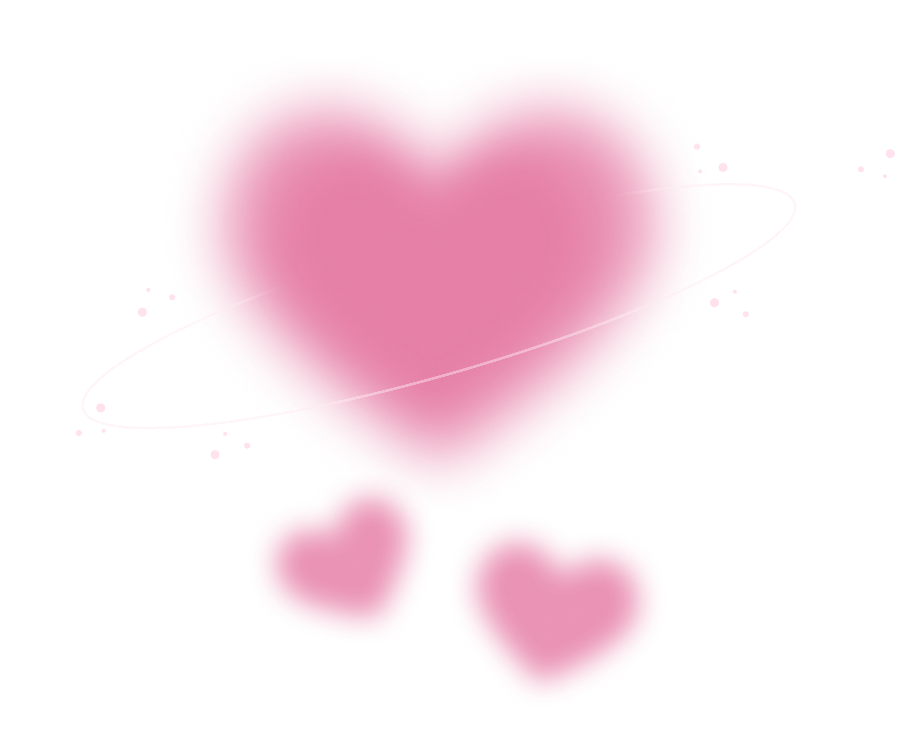
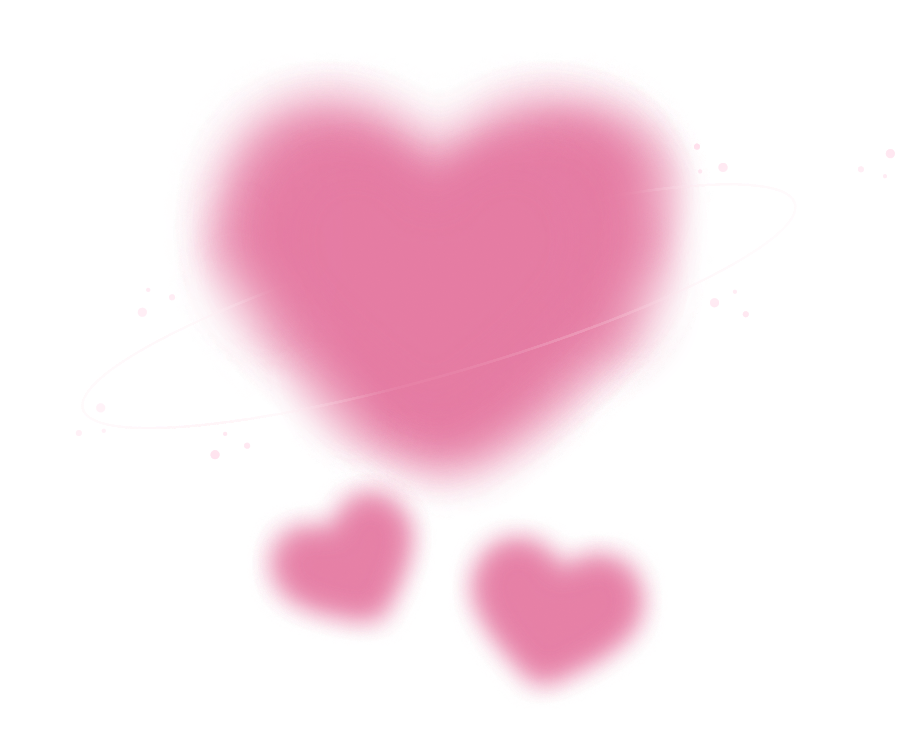
se agrego el fondo de heart aura de forma correcta

Changed region(s): [[0.2137, 0.1197, 0.7634, 0.868], [0.4885, 0.7184, 0.7023, 0.9279]]

diff --git a/src/components/MyTimer.jsx b/src/components/MyTimer.jsx
@@ -44,7 +44,7 @@ function MyTimer() {
     }, [isRunning]);
     // console.log({ customTime })
     return (
-        <div className='flex flex-col items-center justify-center h-[50vh]'>
+        <div className='heart flex flex-col items-center justify-center h-[70vh]'>
             <div className='m-2 flex gap-2 justify-center items-center'>
                 <box-icon
                     onClick={restartTimer}
@@ -70,7 +70,7 @@ function MyTimer() {
                     className={`rounded-full fill-[var(--color-primary)] hover:bg-[var(--color-primary)] hover:fill-white transition-colors duration-300 ease-in-out active:scale-95` + (!isRunning ? ' bg-[var(--color-primary)] fill-white' : '')}>
                 </box-icon>
             </div>
-            <span className="countdown agdasima text-8xl">
+            <span className="countdown agdasima text-8xl mb-[25vh]">
                 <span style={{ "--value": minutes }}></span>:
                 <span style={{ "--value": seconds }}></span>
             </span >

diff --git a/src/components/Header/Header.jsx b/src/components/Header/Header.jsx
@@ -3,7 +3,7 @@ import useTimerStore from "../store/useTimerStore";
 function Header() {
     const { modoFocus, descansoCorto, descansoLargo, isModoFocus, isDescansoCorto, isDescansoLargo } = useTimerStore();
     return (
-        <header className="h-40 bg-transparent flex justify-between items-center px-15  text-xl">
+        <header className="h-30 bg-transparent flex justify-between items-center px-15  text-xl">
             <box-icon name='cog'
                 size='md'
                 className="rounded-full fill-[var(--color-primary)] hover:bg-[var(--color-primary)] p-1 transition-colors duration-300 ease-in-out active:scale-95 hover:fill-white ">

diff --git a/src/App.css b/src/App.css
@@ -6,7 +6,16 @@ body {
   height: 100vh;
   width: 100vw;
   color: var(--color-primary);
-  background: radial-gradient( #ffa0c6, #ffa9cb, #ffffff);
+  background:
+      /* url('../public/img/heart-aura.png') no-repeat center/cover, */
+      radial-gradient(#ffa0c6, #ffa9cb, #ffffff);
+}
+
+.heart{
+  background-image: url('../public/img/heart-aura.png');
+  background-size: 900px auto;
+  background-position: center;
+  background-repeat: no-repeat;
 }
 
 .agdasima {
